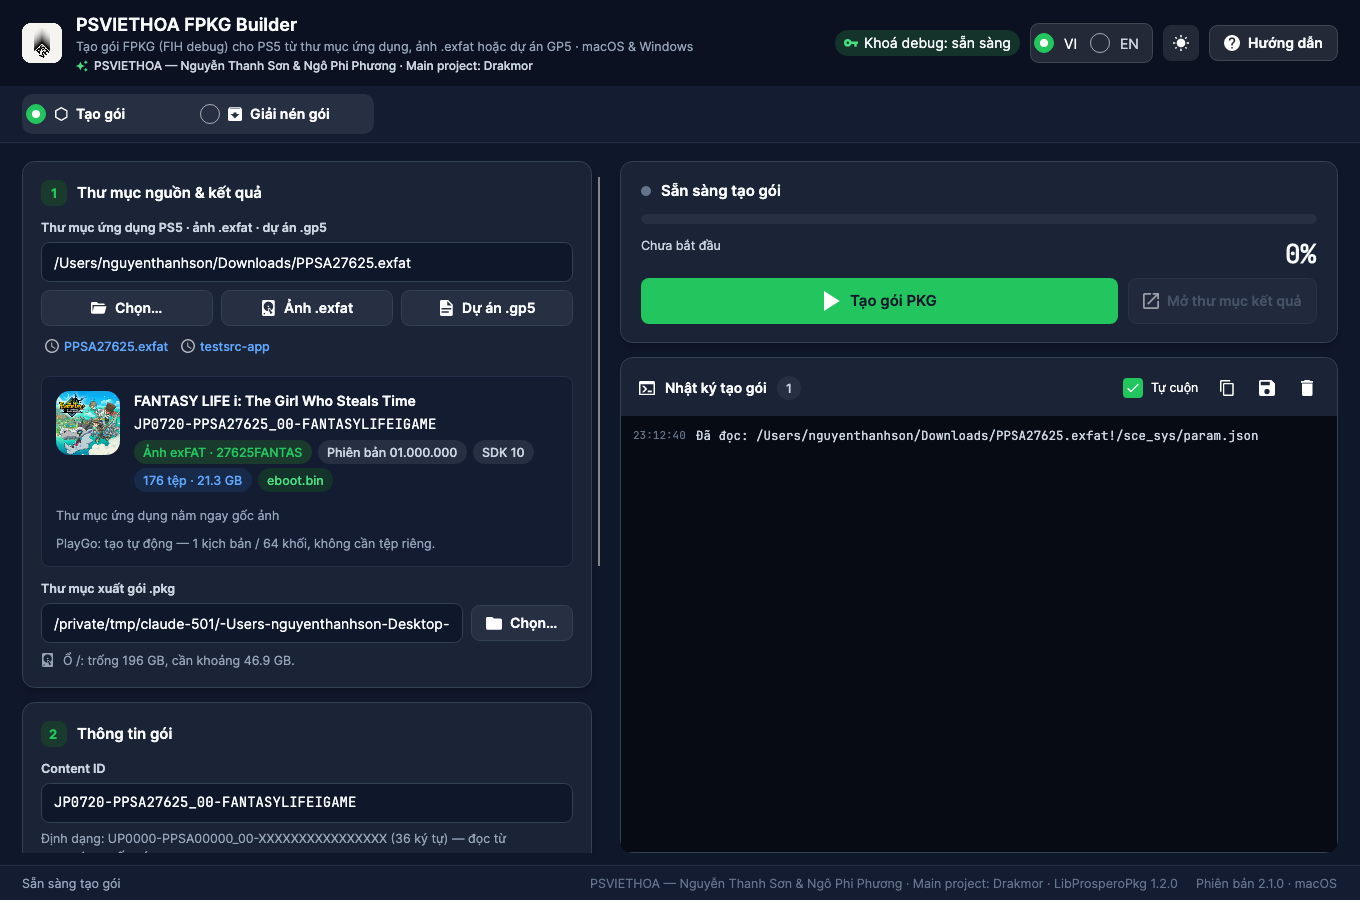
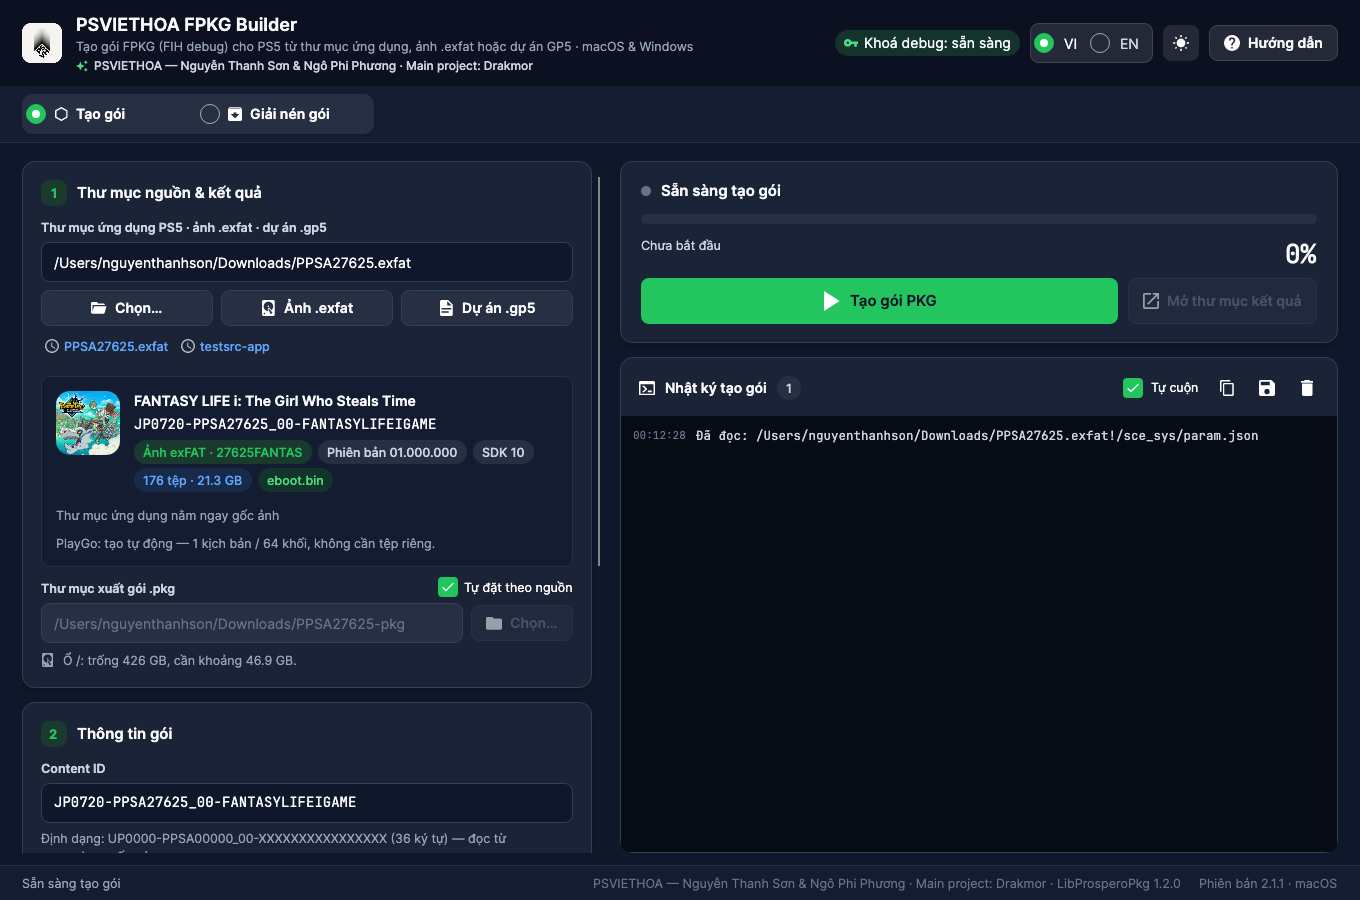
PSVIETHOA FPKG Builder 2.1.2 — output folders follow the source automatically
- "Auto from source" (build) and "Auto from package" (extract) toggles, on by default: the output folder is always "<source>-pkg" / "<package>-extract" next to the source and updates as soon as another source is picked; the field is locked while on, switch off to choose your own folder (remembered)
- Verified with a 30,005-file / 352 MB folder: scan 0.12 s, build 14 s, listing 0.5 s

Changed region(s): [[0.0309, 0.6222, 0.4015, 0.7467], [0.4324, 0.9644, 0.9265, 0.9956]]

diff --git a/src/PsViethoa.FpkgBuilder.App/ViewModels/MainViewModel.cs b/src/PsViethoa.FpkgBuilder.App/ViewModels/MainViewModel.cs
@@ -46,6 +46,7 @@ public sealed partial class MainViewModel : ObservableObject
     private BuildProgress? _lastProgress;
     private DateTime _lastProgressAt;
     private string? _suggestedTemporary;
+
     private bool _attemptedBuild;
     private bool _syncingPreset;
     private bool _syncingLanguage;
@@ -430,6 +431,9 @@ public sealed partial class MainViewModel : ObservableObject
     [ObservableProperty] private string _etaText = string.Empty;
     [ObservableProperty] private string _throughputText = string.Empty;
     [ObservableProperty] private string _elapsedText = string.Empty;
+    /// <summary>Thư mục xuất luôn tự đặt theo nguồn (mặc định bật).</summary>
+    [ObservableProperty] private bool _autoOutputFolder = true;
+
     [ObservableProperty] private string _statusText = string.Empty;
 
     /// <summary>Dòng trạng thái ở chân cửa sổ: theo chế độ đang dùng (tạo gói hoặc giải nén gói).</summary>
@@ -757,6 +761,7 @@ public sealed partial class MainViewModel : ObservableObject
 
             SourcePath = s.SourcePath;
             OutputFolder = s.OutputFolder;
+            AutoOutputFolder = s.OutputFolderAuto;
             var defaultTemporary = string.IsNullOrWhiteSpace(s.OutputFolder) ? string.Empty : BuildPreparer.SuggestTemporaryFolder(s.OutputFolder);
             var keepSaved = !string.IsNullOrWhiteSpace(s.TemporaryFolder) &&
                             (string.IsNullOrWhiteSpace(s.OutputFolder) || DiskSpaceAdvisor.IsSameVolume(s.TemporaryFolder, s.OutputFolder));
@@ -811,6 +816,7 @@ public sealed partial class MainViewModel : ObservableObject
         var s = _settings;
         s.SourcePath = SourcePath.Trim();
         s.OutputFolder = OutputFolder.Trim();
+        s.OutputFolderAuto = AutoOutputFolder;
         s.TemporaryFolder = TemporaryFolder.Trim();
         s.ContentId = ContentId.Trim();
         s.Title = Title.Trim();
@@ -928,19 +934,41 @@ public sealed partial class MainViewModel : ObservableObject
     public void SetSource(string path)
     {
         SourcePath = path;
-        if (string.IsNullOrWhiteSpace(OutputFolder))
-        {
-            try
-            {
-                OutputFolder = BuildPreparer.SuggestOutputFolder(path);
-            }
-            catch (Exception)
-            {
-            }
-        }
-
+        ApplyOutputSuggestion(path);
         _sourceDebounce.Stop();
         ReloadMetadata();
+    }
+
+    /// <summary>
+    /// Khi "Tự đặt theo nguồn" đang bật, thư mục xuất luôn là "&lt;nguồn&gt;-pkg" cạnh nguồn hiện tại
+    /// (đổi nguồn là đổi theo); tắt đi thì người dùng tự chọn và ứng dụng không đụng vào nữa.
+    /// </summary>
+    private void ApplyOutputSuggestion(string source)
+    {
+        if (!AutoOutputFolder || SourceLocator.Detect(source) == SourceKind.None)
+        {
+            return;
+        }
+
+        try
+        {
+            OutputFolder = BuildPreparer.SuggestOutputFolder(source);
+        }
+        catch (Exception)
+        {
+        }
+    }
+
+    /// <summary>Ô thư mục xuất chỉ sửa tay được khi tắt "Tự đặt theo nguồn".</summary>
+    public bool CanEditOutput => !AutoOutputFolder;
+
+    partial void OnAutoOutputFolderChanged(bool value)
+    {
+        OnPropertyChanged(nameof(CanEditOutput));
+        if (value)
+        {
+            ApplyOutputSuggestion(SourcePath.Trim());
+        }
     }
 
     [RelayCommand]
@@ -1044,6 +1072,9 @@ public sealed partial class MainViewModel : ObservableObject
             ShowEmptyMetadata();
             return;
         }
+
+        // Gõ tay hoặc dán đường dẫn nguồn hợp lệ cũng tự đặt thư mục xuất như khi chọn bằng nút.
+        ApplyOutputSuggestion(source);
 
         var cancellation = new CancellationTokenSource();
         _metadataCancellation = cancellation;

diff --git a/src/PsViethoa.FpkgBuilder.App/ViewModels/ExtractionViewModel.cs b/src/PsViethoa.FpkgBuilder.App/ViewModels/ExtractionViewModel.cs
@@ -83,7 +83,6 @@ public sealed partial class ExtractionViewModel : ObservableObject
     private CancellationTokenSource? _previewCancellation;
     private List<PackageEntryItem> _allItems = new();
     private string? _loadedPath;
-    private string? _suggestedOutput;
     private string? _decryptedTempHint;
     private bool _bulkSelecting;
     private bool _recountQueued;
@@ -119,13 +118,7 @@ public sealed partial class ExtractionViewModel : ObservableObject
 
         _packagePath = settings.ExtractPackagePath ?? string.Empty;
         _outputFolder = settings.ExtractOutputFolder ?? string.Empty;
-        // Thư mục xuất khôi phục từ phiên trước mà chính là gợi ý "<gói>-extract" của gói cũ thì vẫn coi là gợi ý tự động,
-        // để khi mở gói khác nó được thay bằng gợi ý mới (không dính thư mục của gói trước).
-        if (!string.IsNullOrWhiteSpace(settings.ExtractPackagePath) && _outputFolder.Length > 0 &&
-            string.Equals(_outputFolder.Trim(), DefaultOutputFor(settings.ExtractPackagePath), StringComparison.OrdinalIgnoreCase))
-        {
-            _suggestedOutput = _outputFolder.Trim();
-        }
+        _autoOutputFolder = settings.ExtractOutputAuto;
         Loc.Current.LanguageChanged += (_, _) => OnLanguageChanged();
         AppDomain.CurrentDomain.ProcessExit += (_, _) => Shutdown();
         ShowEmpty();
@@ -248,6 +241,7 @@ public sealed partial class ExtractionViewModel : ObservableObject
     {
         OnPropertyChanged(nameof(IsBusy));
         OnPropertyChanged(nameof(CanEdit));
+        OnPropertyChanged(nameof(CanEditOutput));
         OnPropertyChanged(nameof(CanComputeSha));
         ComputeSha256Command.NotifyCanExecuteChanged();
         ExtractCommand.NotifyCanExecuteChanged();
@@ -612,18 +606,33 @@ public sealed partial class ExtractionViewModel : ObservableObject
         }
     }
 
+    /// <summary>Thư mục xuất luôn tự đặt theo gói ("&lt;gói&gt;-extract" cạnh tệp .pkg); mặc định bật.</summary>
+    [ObservableProperty] private bool _autoOutputFolder = true;
+
+    /// <summary>Ô thư mục xuất chỉ sửa tay được khi tắt "Tự đặt theo gói" (và không bận).</summary>
+    public bool CanEditOutput => CanEdit && !AutoOutputFolder;
+
+    partial void OnAutoOutputFolderChanged(bool value)
+    {
+        _settings.ExtractOutputAuto = value;
+        OnPropertyChanged(nameof(CanEditOutput));
+        if (value)
+        {
+            SuggestOutputFolder(_loadedPath ?? PackagePath.Trim());
+        }
+    }
+
+    /// <summary>Khi "Tự đặt theo gói" đang bật, thư mục xuất luôn là "&lt;gói&gt;-extract" cạnh tệp .pkg hiện tại.</summary>
     private void SuggestOutputFolder(string packagePath)
     {
-        var suggestion = DefaultOutputFor(packagePath);
-        if (suggestion.Length == 0)
+        if (!AutoOutputFolder)
         {
             return;
         }
 
-        var current = OutputFolder.Trim();
-        if (current.Length == 0 || string.Equals(current, _suggestedOutput, StringComparison.OrdinalIgnoreCase))
+        var suggestion = DefaultOutputFor(packagePath);
+        if (suggestion.Length > 0)
         {
-            _suggestedOutput = suggestion;
             OutputFolder = suggestion;
         }
     }
@@ -1212,8 +1221,9 @@ public sealed partial class ExtractionViewModel : ObservableObject
         var folder = await _dialogs.PickFolderAsync(Loc.T("Extract.PickOutput"), initial);
         if (folder != null)
         {
+            // Người dùng tự chọn thư mục → tắt "Tự đặt theo gói" để không bị ghi đè khi mở gói khác.
+            AutoOutputFolder = false;
             OutputFolder = folder;
-            _suggestedOutput = null;
         }
     }
 

diff --git a/src/PsViethoa.FpkgBuilder.App/Services/AppSettings.cs b/src/PsViethoa.FpkgBuilder.App/Services/AppSettings.cs
@@ -19,6 +19,9 @@ public sealed class AppSettings
 
     public string OutputFolder { get; set; } = string.Empty;
 
+    /// <summary>Bật = thư mục xuất luôn tự đặt theo nguồn ("&lt;nguồn&gt;-pkg" cạnh nguồn); tắt = người dùng tự chọn.</summary>
+    public bool OutputFolderAuto { get; set; } = true;
+
     public string TemporaryFolder { get; set; } = string.Empty;
 
     public string ContentId { get; set; } = string.Empty;
@@ -81,6 +84,9 @@ public sealed class AppSettings
 
     /// <summary>Thư mục giải nén gần nhất.</summary>
     public string ExtractOutputFolder { get; set; } = string.Empty;
+
+    /// <summary>Bật = thư mục xuất của chế độ giải nén luôn tự đặt theo gói ("&lt;gói&gt;-extract" cạnh tệp .pkg).</summary>
+    public bool ExtractOutputAuto { get; set; } = true;
 
     public List<string> RecentSources { get; set; } = new();
 }

diff --git a/CHANGELOG.md b/CHANGELOG.md
@@ -1,5 +1,10 @@
 # Changelog
 
+## 2.1.2 — 2026-09-14
+
+- **Output folders follow the source automatically.** New "Auto from source" (build) and "Auto from package" (extract) toggles, on by default: while on, the output folder is always "<source>-pkg" / "<package>-extract" next to the source and updates the moment you pick another source (browse, drop, recent, typed path); the field is locked. Switch it off to choose your own folder (picking a folder in extract mode switches it off automatically). The choice is remembered.
+- Verified with a 30,005-file / 352 MB folder: scan 0.12 s, full build 14 s, listing the resulting package 0.5 s — file count barely matters, data size does.
+
 ## 2.1.1 — 2026-09-14
 
 - **Extracted app trees are now in Sony layout.** The "original app tree" option merges param.json, icon0.png, pic0.png and the playgo files from the CNT into `sce_sys/`, so the output folder can be used directly as a source to build an FPKG again (CLI: `pkg-extract` does the same; `--no-sce-sys` skips it, `--cnt` still exports the raw CNT tables to `cnt/`).

diff --git a/README.md b/README.md
@@ -116,6 +116,7 @@ Measured on an Apple‑Silicon Mac (15 logical cores), built‑in Kraken, LibPro
 | Test | Config | Time | Package |
 |---|---|---|---|
 | 400 MB synthetic | Fast (Kraken 2) / **Standard (4, default)** | 6.8 s / 7.5 s | 254.3 MB / 254.2 MB |
+| 352 MB synthetic, **30,005 files** | Standard (4) | 14 s (scan 0.12 s) | 204 MB |
 | 400 MB synthetic | Smallest (Kraken 7) | 16.4 s | 250.3 MB |
 | 400 MB synthetic | Maximum (Kraken 9 + PFS v3 + shuffle analysis) | 47.6 s | 249.8 MB |
 | 813 MB real game (`PPSA06438`, mounted .exfat) | Smallest / Fast | 23.4 s / 4.9 s | 257.2 MB / 262.8 MB |
